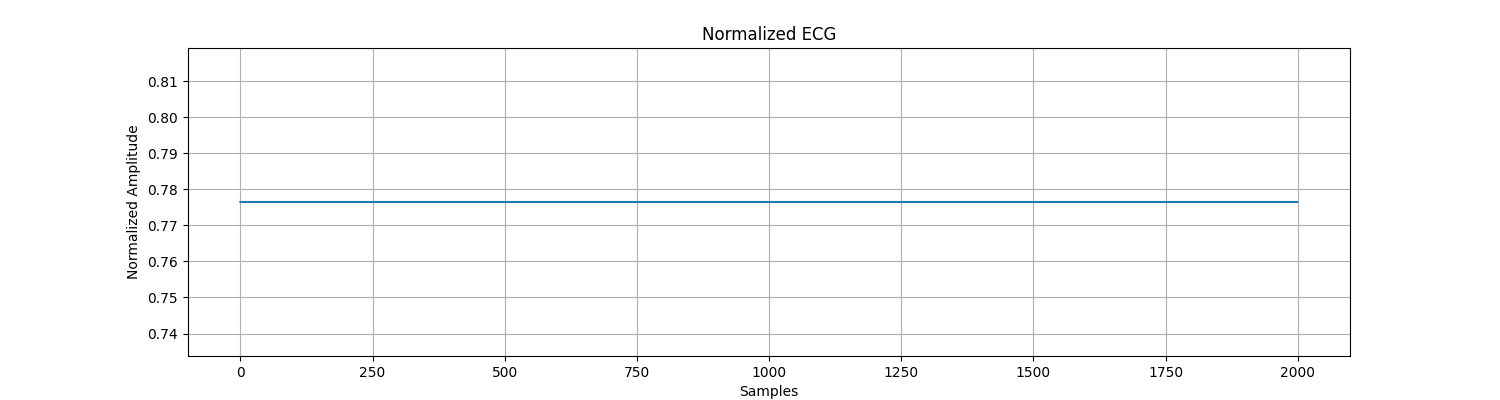
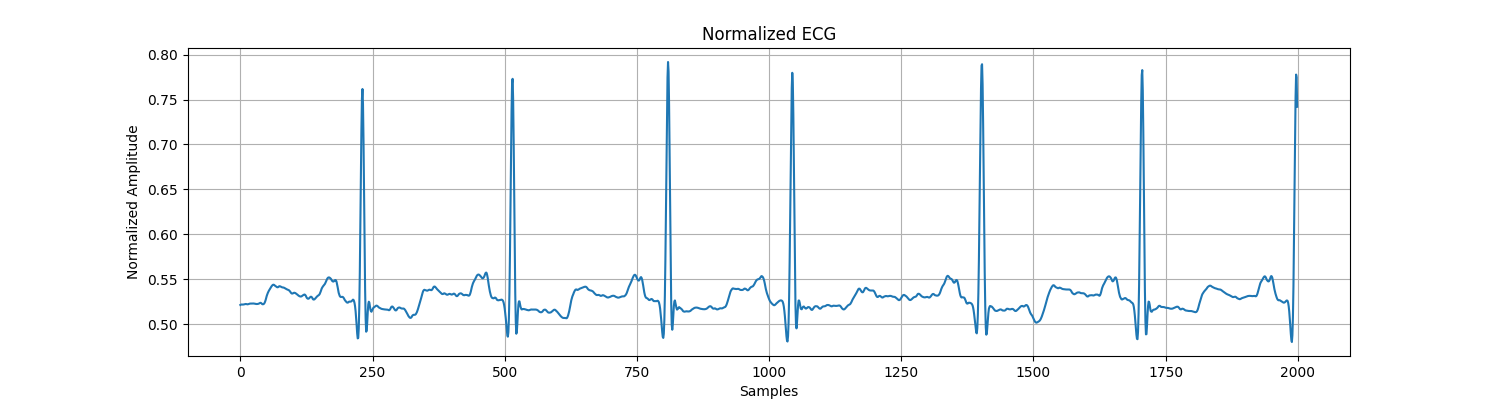
Added pqrst waves and plots

diff --git a/main.py b/main.py
@@ -1,12 +1,17 @@
+import os
 import wfdb
 import numpy as np
 import matplotlib.pyplot as plt
 
 from scipy.fft import fft, fftfreq
-from scipy.signal import butter, filtfilt, iirnotch
+from scipy.signal import butter, filtfilt, iirnotch, find_peaks
 
 import pywt
 from sklearn.preprocessing import MinMaxScaler
+
+# Create output folders if they don't exist
+os.makedirs("plots", exist_ok=True)
+os.makedirs("outputs", exist_ok=True)
 
 # =========================================================
 # STEP 1 — READ MIT-BIH ECG DATASET
@@ -152,7 +157,9 @@ def wavelet_denoise(signal, wavelet='db4', level=4):
 
     coeffs = pywt.wavedec(signal, wavelet, level=level)
 
-    threshold = np.sqrt(2 * np.log(len(signal)))
+    # MAD-based noise estimate from finest detail coefficients
+    sigma     = np.median(np.abs(coeffs[-1])) / 0.6745
+    threshold = sigma * np.sqrt(2 * np.log(len(signal)))
 
     denoised_coeffs = []
 
@@ -212,10 +219,279 @@ plt.savefig("plots/normalized_ecg.png")
 plt.show()
 
 # =========================================================
-# STEP 9 — ECG SEGMENTATION
+# STEP 9 — R PEAK DETECTION
 # =========================================================
 
-WINDOW_SIZE = 256
+r_peaks, properties = find_peaks(
+    normalized_ecg,
+    distance=150,
+    height=0.6
+)
+
+print("Number of R Peaks:", len(r_peaks))
+
+# Plot R Peaks
+plt.figure(figsize=(15,4))
+
+# Use range(1000,3000) so signal x and peak x are in the same coordinate space
+plt.plot(range(1000, 3000), normalized_ecg[1000:3000])
+
+# Show peaks only in displayed region
+visible_peaks = r_peaks[
+    (r_peaks >= 1000) & (r_peaks <= 3000)
+]
+
+plt.plot(
+    visible_peaks,
+    normalized_ecg[visible_peaks],
+    "ro"
+)
+
+plt.title("R Peak Detection")
+plt.xlabel("Samples")
+plt.ylabel("Amplitude")
+
+plt.grid()
+
+plt.savefig("plots/r_peaks.png")
+
+plt.show()
+
+# =========================================================
+# STEP 10 — Q, S, P, T DETECTION
+# =========================================================
+
+# Physiologically correct search windows (in ms → samples at fs Hz)
+# Q wave  : 5–50 ms before R        (sits just left of R peak)
+# S wave  : 5–80 ms after R         (sits just right of R peak)
+# P wave  : 80–220 ms before R      (small bump before QRS)
+# T wave  : 100–400 ms after R      (broad bump after QRS)
+
+Q_START_MS  = 50  ;  Q_END_MS  = 5
+S_START_MS  = 5   ;  S_END_MS  = 80
+P_START_MS  = 220 ;  P_END_MS  = 80
+T_START_MS  = 100 ;  T_END_MS  = 400
+
+def ms(milliseconds):
+    return max(1, int(milliseconds * fs / 1000))
+
+q_peaks = []
+s_peaks = []
+p_peaks = []
+t_peaks = []
+
+for r in r_peaks:
+
+    # --- Q wave: minimum just before R ---
+    q_start = max(0, r - ms(Q_START_MS))
+    q_end   = max(0, r - ms(Q_END_MS))
+    if q_end > q_start:
+        q = np.argmin(normalized_ecg[q_start:q_end]) + q_start
+        q_peaks.append(q)
+
+    # --- S wave: minimum just after R ---
+    s_start = min(len(normalized_ecg), r + ms(S_START_MS))
+    s_end   = min(len(normalized_ecg), r + ms(S_END_MS))
+    if s_end > s_start:
+        s = np.argmin(normalized_ecg[s_start:s_end]) + s_start
+        s_peaks.append(s)
+
+    # --- P wave: largest peak in pre-QRS window ---
+    p_start = max(0, r - ms(P_START_MS))
+    p_end   = max(0, r - ms(P_END_MS))
+    if p_end > p_start:
+        p = np.argmax(normalized_ecg[p_start:p_end]) + p_start
+        p_peaks.append(p)
+
+    # --- T wave: largest peak in post-QRS window ---
+    t_start = min(len(normalized_ecg), r + ms(T_START_MS))
+    t_end   = min(len(normalized_ecg), r + ms(T_END_MS))
+    if t_end > t_start:
+        t = np.argmax(normalized_ecg[t_start:t_end]) + t_start
+        t_peaks.append(t)
+
+# =========================================================
+# STEP 11 — VISUALIZE PQRST WAVES (with proper labels)
+# =========================================================
+
+START = 1000
+END   = 3000
+
+def get_visible(peaks, start, end):
+    arr = np.array(peaks)
+    return arr[(arr >= start) & (arr < end)]
+
+visible_r = get_visible(r_peaks, START, END)
+visible_q = get_visible(q_peaks, START, END)
+visible_s = get_visible(s_peaks, START, END)
+visible_p = get_visible(p_peaks, START, END)
+visible_t = get_visible(t_peaks, START, END)
+
+plt.figure(figsize=(15, 6))
+
+plt.plot(
+    range(START, END),
+    normalized_ecg[START:END],
+    color='black',
+    linewidth=0.8,
+    label='ECG'
+)
+
+# Wave markers + text annotations on the graph
+wave_config = [
+    (visible_p, 'P', 'blue',   '^',  0.08),
+    (visible_q, 'Q', 'green',  'v', -0.09),
+    (visible_r, 'R', 'red',    '^',  0.08),
+    (visible_s, 'S', 'purple', 'v', -0.09),
+    (visible_t, 'T', 'orange', '^',  0.08),
+]
+
+for peaks, label, color, marker, offset in wave_config:
+
+    if len(peaks) == 0:
+        continue
+
+    yvals = normalized_ecg[peaks]
+
+    plt.scatter(
+        peaks, yvals,
+        color=color, s=60, marker=marker,
+        zorder=5, label=f'{label} Wave'
+    )
+
+    # Annotate every other beat to avoid clutter
+    for i, (px, py) in enumerate(zip(peaks, yvals)):
+        if i % 2 == 0:
+            plt.annotate(
+                label,
+                xy=(px, py),
+                xytext=(px, py + offset),
+                ha='center',
+                fontsize=9,
+                fontweight='bold',
+                color=color,
+                arrowprops=dict(arrowstyle='-', color=color, lw=0.8)
+            )
+
+plt.title("PQRST Wave Detection")
+plt.xlabel("Samples")
+plt.ylabel("Normalized Amplitude")
+plt.legend()
+plt.grid(alpha=0.3)
+
+plt.savefig("plots/pqrst_detection.png")
+
+plt.show()
+
+# =========================================================
+# STEP 12 — SINGLE BEAT ZOOM (one clean PQRST complex)
+# =========================================================
+
+# Pick the 3rd R peak for a clean example
+BEAT_IDX = 2
+
+r_center = r_peaks[BEAT_IDX]
+zoom_s   = max(0, r_center - int(0.3 * fs))
+zoom_e   = min(len(normalized_ecg), r_center + int(0.4 * fs))
+
+plt.figure(figsize=(10, 5))
+
+plt.plot(
+    range(zoom_s, zoom_e),
+    normalized_ecg[zoom_s:zoom_e],
+    color='black',
+    linewidth=1.5
+)
+
+# Label each wave for this beat
+single_waves = {
+    'P': (p_peaks[BEAT_IDX] if BEAT_IDX < len(p_peaks) else None, 'blue'),
+    'Q': (q_peaks[BEAT_IDX] if BEAT_IDX < len(q_peaks) else None, 'green'),
+    'R': (r_peaks[BEAT_IDX],                                       'red'),
+    'S': (s_peaks[BEAT_IDX] if BEAT_IDX < len(s_peaks) else None, 'purple'),
+    'T': (t_peaks[BEAT_IDX] if BEAT_IDX < len(t_peaks) else None, 'orange'),
+}
+
+for name, (idx, color) in single_waves.items():
+
+    if idx is None:
+        continue
+
+    yval   = normalized_ecg[idx]
+    offset = 0.12 if name in ('P', 'R', 'T') else -0.12
+
+    plt.scatter([idx], [yval], color=color, s=100, zorder=5)
+
+    plt.annotate(
+        name,
+        xy=(idx, yval),
+        xytext=(idx, yval + offset),
+        ha='center',
+        fontsize=13,
+        fontweight='bold',
+        color=color,
+        arrowprops=dict(arrowstyle='->', color=color, lw=1.2)
+    )
+
+plt.title("Single Beat — PQRST Complex")
+plt.xlabel("Samples")
+plt.ylabel("Normalized Amplitude")
+plt.grid(alpha=0.3)
+
+plt.savefig("plots/single_beat_pqrst.png")
+
+plt.show()
+
+# =========================================================
+# STEP 13 — HEARTBEAT SEGMENTATION
+# =========================================================
+
+WINDOW_BEFORE = 128
+WINDOW_AFTER  = 128
+WINDOW_SIZE   = WINDOW_BEFORE + WINDOW_AFTER   # FIX: was undefined before
+
+X = []
+y = []
+
+valid_labels = ['N', 'V', 'A', 'L', 'R']
+
+for i in range(len(annotation.sample)):
+
+    r_peak = annotation.sample[i]
+    label = annotation.symbol[i]
+
+    if label not in valid_labels:
+        continue
+
+    start = r_peak - WINDOW_BEFORE
+    end = r_peak + WINDOW_AFTER
+
+    if start < 0 or end > len(normalized_ecg):
+        continue
+
+    beat = normalized_ecg[start:end]
+
+    X.append(beat)
+    y.append(label)
+
+X = np.array(X)
+y = np.array(y)
+
+print("Dataset Shape:", X.shape)
+print("Labels Shape:", y.shape)
+
+# =========================================================
+# STEP 14 — SAVE DATASET
+# =========================================================
+
+np.save("outputs/X.npy", X)
+np.save("outputs/y.npy", y)
+
+print("Dataset Saved!")
+
+# =========================================================
+# STEP 15 — ECG SEGMENTATION
+# =========================================================
 
 segments = []
 
@@ -230,7 +506,7 @@ segments = np.array(segments)
 print("Segments Shape:", segments.shape)
 
 # =========================================================
-# STEP 10 — SAVE SEGMENTS
+# STEP 16 — SAVE SEGMENTS
 # =========================================================
 
 np.save("outputs/ecg_segments.npy", segments)
@@ -238,7 +514,7 @@ np.save("outputs/ecg_segments.npy", segments)
 print("ECG Segments Saved!")
 
 # =========================================================
-# STEP 11 — COMPARISON PLOT
+# STEP 17 — COMPARISON PLOT
 # =========================================================
 
 plt.figure(figsize=(15,10))
@@ -273,12 +549,19 @@ print("\n====================================")
 print("ECG PREPROCESSING COMPLETE")
 print("====================================")
 print("Generated Files:")
-print("1. raw_ecg.png")
-print("2. fft_ecg.png")
-print("3. bandpass_ecg.png")
-print("4. notch_ecg.png")
-print("5. wavelet_ecg.png")
-print("6. normalized_ecg.png")
-print("7. comparison_ecg.png")
-print("8. ecg_segments.npy")
+print("1.  raw_ecg.png")
+print("2.  fft_ecg.png")
+print("3.  bandpass_ecg.png")
+print("4.  notch_ecg.png")
+print("5.  wavelet_ecg.png")
+print("6.  normalized_ecg.png")
+print("7.  r_peaks.png")
+print("8.  pqrst_detection.png")
+print("9.  single_beat_pqrst.png")
+print("10. comparison_ecg.png")
+print("====================================")
+print("Saved Arrays:")
+print("1. outputs/X.npy")
+print("2. outputs/y.npy")
+print("3. outputs/ecg_segments.npy")
 print("====================================")